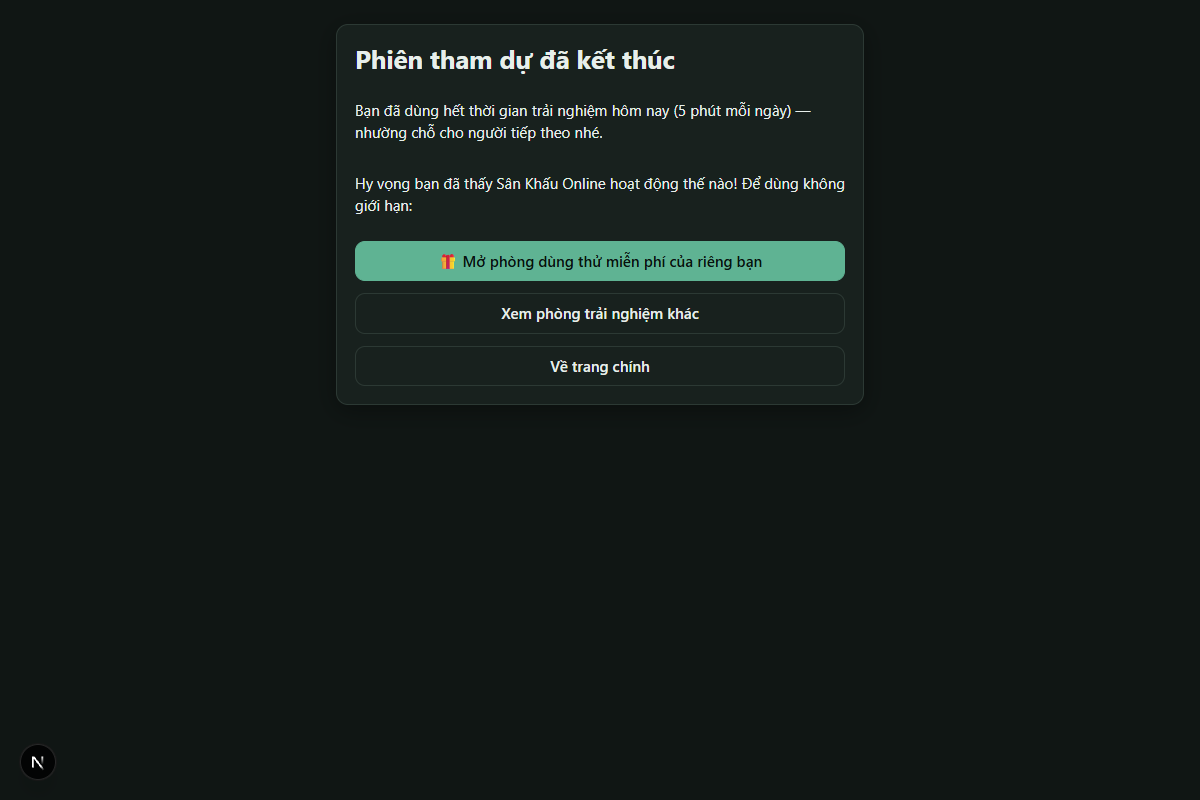
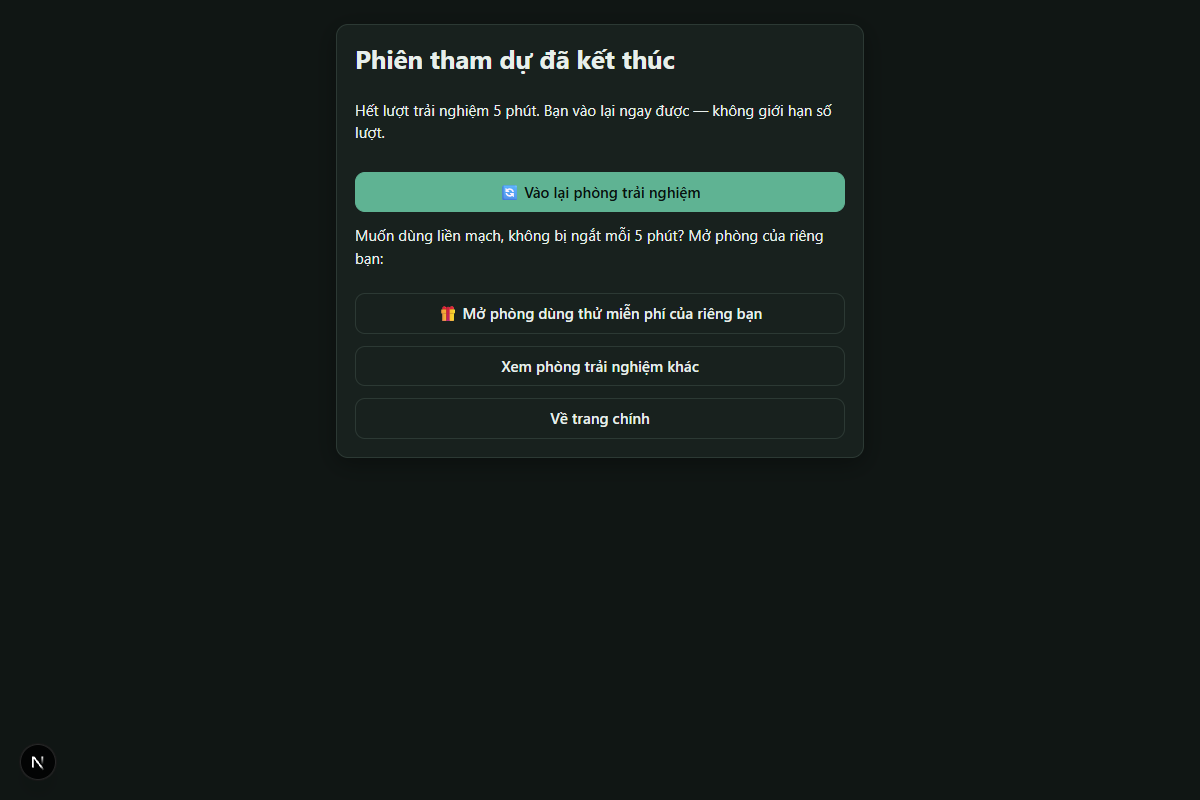
feat(demo): unlimited visits, each one at most N minutes — when it runs out you leave and may come straight back
- every visit gets the full time (no daily quota); minutes are still recorded for statistics
- end screen: "Vào lại phòng trải nghiệm" (rejoins at once) + open your own room
- home / invite page / admin wording: "mỗi lượt N phút, không giới hạn số lượt"; existing demo
  room descriptions updated

Changed region(s): [[0.2775, 0.125, 0.7092, 0.4062], [0.4008, 0.4375, 0.5858, 0.4688], [0.4625, 0.5, 0.555, 0.5312]]

diff --git a/server/hub.ts b/server/hub.ts
@@ -17,8 +17,8 @@ import { askQuestion, getQuestion, listModerators, listQuestions, myQuestionVote
 import type { MarketService } from "./market/service";
 import { askLive, denyLive, goOnAir, grantLive, initialLive, LIVE_MODES, mayPublish, setLiveMode, stopLive, type LiveDto, type LiveState } from "@/core/live";
 import type { LiveMeter, RealtimeClient } from "./live";
-import { DEMO_SHOWCASE, DEMO_SHOWCASE_MS, demoContentAllowed, demoSecondsLeft, type DemoDto } from "@/core/demo";
-import { addDemoUsage, demoUsage } from "./services/demo";
+import { DEMO_SHOWCASE, DEMO_SHOWCASE_MS, demoContentAllowed, type DemoDto } from "@/core/demo";
+import { addDemoUsage } from "./services/demo";
 
 /** Place kept after the page was closed / reloaded on purpose (a reload comes back within it). */
 const CLOSED_TAB_HOLD_MS = 15_000;
@@ -448,11 +448,10 @@ export class Hub {
     return { seated, waiting, hostName: room.demo?.hostName ?? null, hostLeftSec: host?.demo ? Math.max(0, host.demo.left0 - host.demo.used) : null }; // null: no limit (room / app owner) or reconnecting
   }
 
-  /** Seconds this device / network has left today (for the home page / invite page). */
-  async demoLeft(deviceKey: string, ipKey: string) {
+  /** One visit's length (for the home page / invite page): every visit gets the full time. */
+  async demoLeft(_deviceKey: string, _ipKey: string) {
     const limitSec = (this.settings.demo_minutes_per_day ?? 5) * 60;
-    const u = await demoUsage(this.db, [deviceKey, ipKey]);
-    return { leftSec: demoSecondsLeft(limitSec, u[deviceKey] + this.unsavedDemo(deviceKey), u[ipKey] + this.unsavedDemo(ipKey)), limitSec };
+    return { leftSec: limitSec, limitSec };
   }
 
   // ---------- live camera ----------
@@ -985,12 +984,12 @@ export class Hub {
       const cap = this.settings.ip_max_participants;
       if (cap > 0 && sameIp >= cap) return this.error(c, "IP_LIMIT_PARTICIPANT", ERROR_TEXT.IP_LIMIT_PARTICIPANT);
       if (room.row.is_demo && !isOwner) {
+        // Unlimited visits, each one at most N minutes: when it runs out you leave and may come back
+        // at once (minutes are still counted per device / network for the statistics).
         const limitSec = (this.settings.demo_minutes_per_day ?? 5) * 60;
         const keys = [`dev:${c.deviceId}`, `ip:${c.ipHash}`];
-        const used = await demoUsage(this.db, keys);
-        const left = demoSecondsLeft(limitSec, used[keys[0]] + this.unsavedDemo(keys[0]), used[keys[1]] + this.unsavedDemo(keys[1]));
-        if (limitSec <= 0 || left <= 0) return this.error(c, "DEMO_QUOTA", "Bạn đã dùng hết thời gian trải nghiệm hôm nay. Mai quay lại nhé — hoặc mở phòng dùng thử miễn phí của riêng bạn.");
-        c.demo = { keys, used: 0, saved: 0, left0: left };
+        if (limitSec <= 0) return this.error(c, "DEMO_QUOTA", "Phòng trải nghiệm đang tạm tắt.");
+        c.demo = { keys, used: 0, saved: 0, left0: limitSec };
       }
       this.participantIp.set(uid, { ip: c.ipHash, device: c.deviceId });
       const r = room.engine.join(uid, c.user.display_name, { group: m.avatar.group as AvatarGroup, model: m.avatar.model, color: validAvatarColor(m.avatar.group, m.avatar.color) }, Date.now(), m.resume ? { after: process.uptime() < 300 ? "server_restart" : "hold_expired" } : undefined);

diff --git a/src/components/room/demo.tsx b/src/components/room/demo.tsx
@@ -5,7 +5,7 @@ import Link from "next/link";
 import { useEffect, useState } from "react";
 import type { DemoDto } from "@/core/demo";
 
-export const DEMO_OVER_TEXT = "Bạn đã dùng hết thời gian trải nghiệm hôm nay (5 phút mỗi ngày) — nhường chỗ cho người tiếp theo nhé.";
+export const DEMO_OVER_TEXT = "Hết lượt trải nghiệm. Bạn vào lại ngay được — không giới hạn số lượt.";
 
 const mmss = (s: number) => `${Math.floor(s / 60)}:${String(Math.max(0, Math.floor(s % 60))).padStart(2, "0")}`;
 
@@ -24,18 +24,21 @@ export function DemoClock({ demo, waiting, isHost }: { demo: DemoDto; waiting: b
   }, [waiting, demo.unlimited]);
   if (demo.unlimited) return null;
   return (
-    <span className={`hud-chip demo-clock ${left <= 60 ? "low" : ""}`} title="Thời gian trải nghiệm còn lại hôm nay">
+    <span className={`hud-chip demo-clock ${left <= 60 ? "low" : ""}`} title="Thời gian còn lại của lượt trải nghiệm này (hết lượt thì vào lại)">
       {isHost ? "👑 Chủ phòng trải nghiệm · " : "🎟 Trải nghiệm · "}⏳ {waiting ? "tạm dừng khi chờ" : `còn ${mmss(left)}`}
     </span>
   );
 }
 
-/** Shown when the day's minutes are used up: what next. */
+/** Shown when a visit's minutes are used up: come back in, or open your own room. */
 export function DemoOver() {
   return (
     <div className="stack demo-over">
-      <p>Hy vọng bạn đã thấy Sân Khấu Online hoạt động thế nào! Để dùng không giới hạn:</p>
-      <Link className="btn primary" href="/login?mode=signup&next=%2Frooms%2Fnew">
+      <button className="btn primary" onClick={() => window.location.reload()}>
+        🔄 Vào lại phòng trải nghiệm
+      </button>
+      <p>Muốn dùng liền mạch, không bị ngắt giữa chừng? Mở phòng của riêng bạn:</p>
+      <Link className="btn" href="/login?mode=signup&next=%2Frooms%2Fnew">
         🎁 Mở phòng dùng thử miễn phí của riêng bạn
       </Link>
       <Link className="btn" href="/#trai-nghiem">

diff --git a/server/services/demo.ts b/server/services/demo.ts
@@ -9,6 +9,7 @@ import { getRoom, insertRoom, type RoomRow } from "./rooms";
 import { getSettings } from "./settings";
 
 export const DEMO_SEATS = 3;
+const DEMO_DESCRIPTION = "Phòng mẫu để trải nghiệm Sân Khấu Online trước khi đăng ký. Mỗi lượt vài phút, vào lại không giới hạn.";
 const DEMO_WAITING = 6;
 
 const DEFAULT_DEMOS: { map: MapCode; name: string }[] = [
@@ -37,7 +38,7 @@ export async function createDemoRoom(db: Db, ownerId: string, map: MapCode, name
       ownerId,
       {
         name,
-        description: "Phòng mẫu để trải nghiệm Sân Khấu Online trước khi đăng ký. Mỗi người được vào vài phút mỗi ngày.",
+        description: DEMO_DESCRIPTION,
         map,
         avatarGroups: map === "drive_in" ? ["vehicles"] : ["people", "animals"],
         officialCapacity: DEMO_SEATS,
@@ -73,6 +74,8 @@ export async function ensureDemoRooms(db: Db): Promise<RoomRow[]> {
       const s = await getSettings(db);
       const owner = (await db.query<{ id: string }>("select id from app.users where role = 'app_owner' order by created_at limit 1")).rows[0];
       if (s.demo_minutes_per_day <= 0 || !owner) return void (ensuring = null); // try again later
+      // the rule changed from "N minutes a day" to "N minutes a visit, come back any time"
+      await db.query("update app.rooms set description = $1 where is_demo and description like '%mỗi ngày%'", [DEMO_DESCRIPTION]);
       for (const d of DEFAULT_DEMOS) {
         const ever = (await db.query("select 1 from app.rooms where is_demo and map_code = $1 limit 1", [d.map])).rows.length > 0;
         if (!ever) await createDemoRoom(db, owner.id, d.map, d.name);

diff --git a/src/app/join/[code]/page.tsx b/src/app/join/[code]/page.tsx
@@ -195,7 +195,7 @@ function JoinForm({ code, data, me }: { code: string; data: InviteView; me: Me |
         <div className="notice demo-intro stack" style={{ gap: 8 }}>
           <b>🎪 Phòng trải nghiệm — không cần tài khoản</b>
           <span>
-            Mỗi người được trải nghiệm <b>{Math.round(demo.limitSec / 60)} phút mỗi ngày</b> (chỉ tính lúc ở trong phòng, không tính lúc chờ). Hôm nay bạn còn <b>{mmss(demo.leftSec)}</b>. Phòng có {r.name.includes("Bãi") ? "3 chỗ đỗ" : "3 ghế"}: {demo.seated}/3 đang có người{demo.waiting ? `, ${demo.waiting} người chờ` : ""}.
+            Mỗi lượt trải nghiệm <b>{Math.round(demo.limitSec / 60)} phút</b> (chỉ tính lúc ở trong phòng, không tính lúc chờ). Hết lượt bạn vào lại ngay được — <b>không giới hạn số lượt</b>. Phòng có {r.name.includes("Bãi") ? "3 chỗ đỗ" : "3 ghế"}: {demo.seated}/3 đang có người{demo.waiting ? `, ${demo.waiting} người chờ` : ""}.
           </span>
           {demo.leftSec > 0 && (
             <div className="demo-roles" role="radiogroup" aria-label="Vào với vai trò">

diff --git a/src/components/home/demo-rooms.tsx b/src/components/home/demo-rooms.tsx
@@ -46,8 +46,7 @@ export function DemoRooms() {
       <h2 id="demo-h" className="frame-title">🎪 Thử Sân Khấu Online ngay — không cần tài khoản</h2>
       <p className="muted-x demo-lead">
         Vào phòng mẫu và tự tay làm <b>chủ phòng</b> (chiếu YouTube, đưa biểu đồ chứng khoán lên màn hình, tạo bình chọn, bật tắt đèn sân khấu, thử camera) hoặc làm <b>khách</b> (ngồi ghế, chat với người bên cạnh, thả cảm xúc, giơ tay, đặt câu hỏi).
-        Mỗi người <b>{Math.round(data.limitSec / 60)} phút mỗi ngày</b>
-        {out ? " — hôm nay bạn đã dùng hết, mai quay lại nhé." : ` — hôm nay bạn còn ${mmss(data.leftSec)}.`}
+        Mỗi lượt <b>{Math.round(data.limitSec / 60)} phút</b> — hết lượt vào lại ngay, <b>không giới hạn số lượt</b>.
       </p>
       <div className="demo-grid">
         {data.rooms.map((r) => {

diff --git a/src/app/admin/page.tsx b/src/app/admin/page.tsx
@@ -806,7 +806,7 @@ function DemoRoomsCard({ minutes, onMinutes }: { minutes: number; onMinutes: (v:
     <div className="card stack">
       <h2>🎪 Phòng trải nghiệm (trang chủ)</h2>
       <label className="field">
-        Số phút trải nghiệm mỗi người mỗi ngày (0 = ẩn phòng trải nghiệm)
+        Số phút mỗi lượt trải nghiệm — hết lượt vào lại được, không giới hạn số lượt (0 = ẩn phòng trải nghiệm)
         <input type="number" min={0} max={1440} value={minutes} onChange={(e) => onMinutes(Number(e.target.value))} />
       </label>
       <small>Tính theo thiết bị (và theo mạng, tối đa 6 người/mạng/ngày) để mở tab ẩn danh không lách được. Phòng trải nghiệm không tính tiền, không trừ slot hệ thống.</small>
